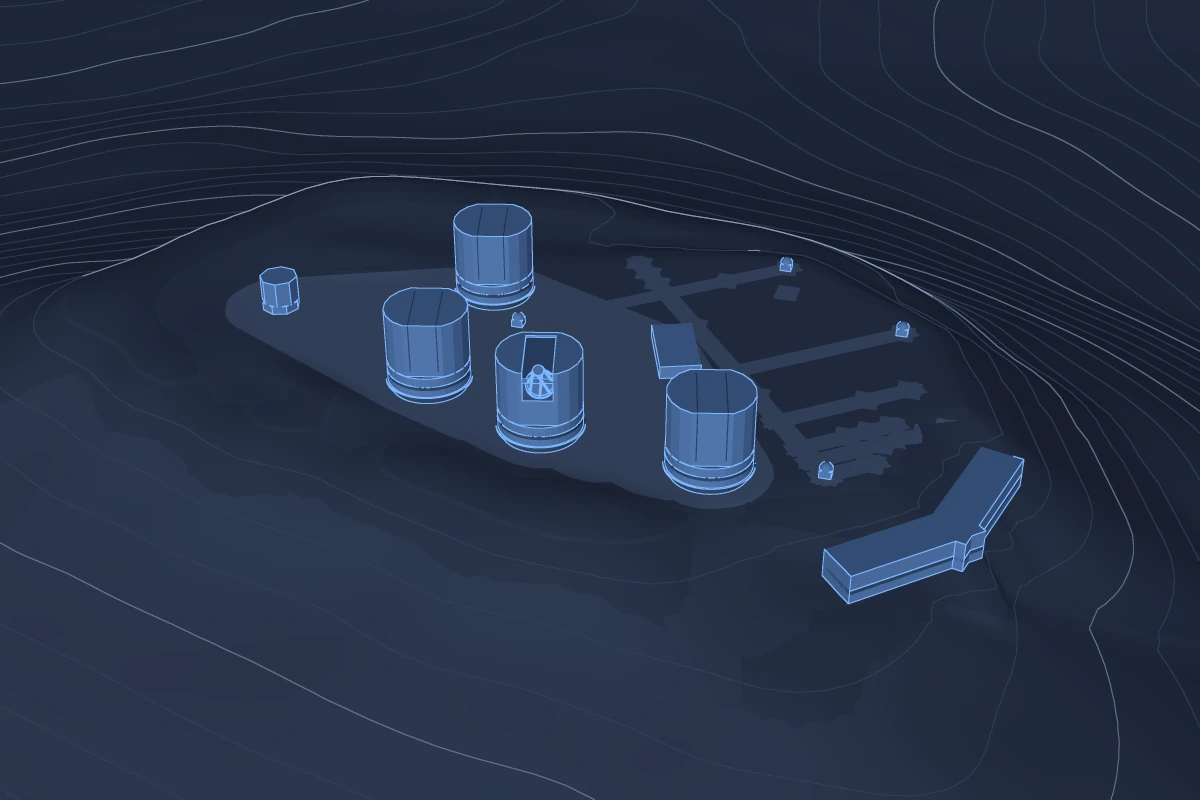
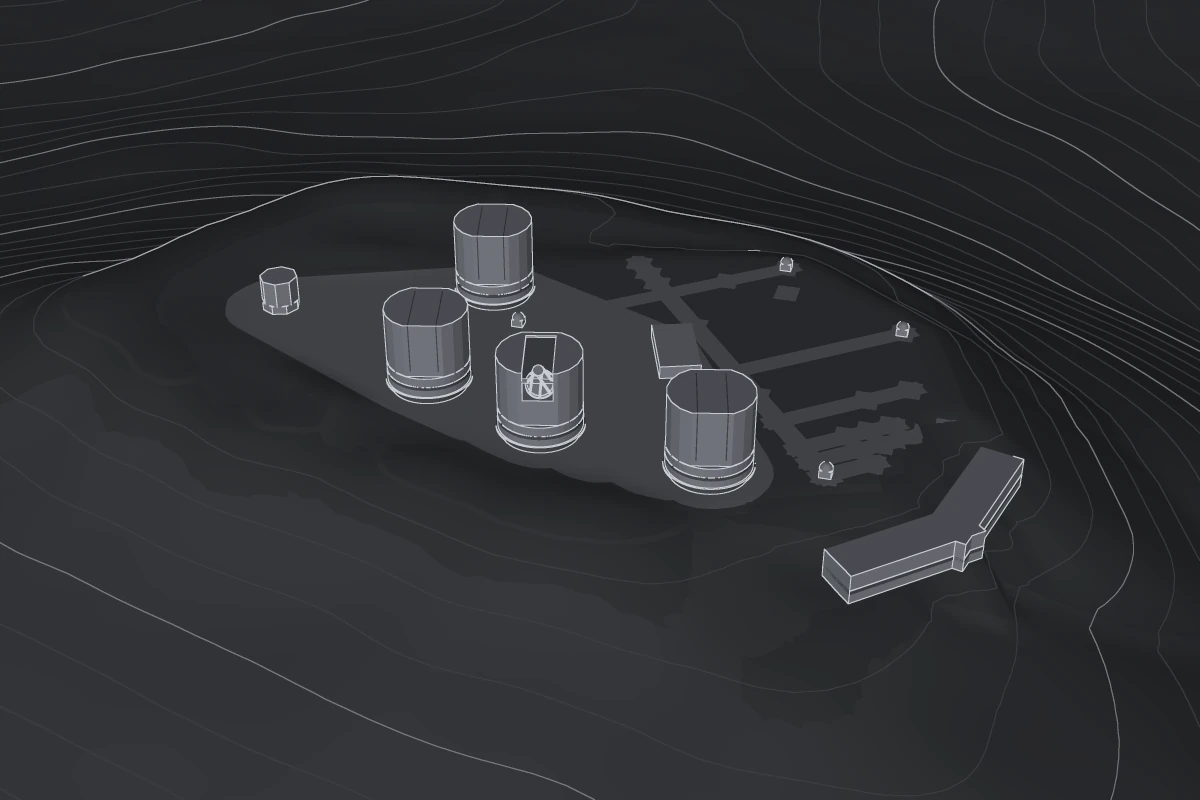
Grey schematic linework with blue for my own parts and amber for flow; marine and stone map colours; the Paranal views re-rendered in grey; the navy headshot as the portrait; the link preview and CV refreshed

diff --git a/assets/css/site.css b/assets/css/site.css
@@ -49,19 +49,28 @@
     --mono: "Geist Mono", ui-monospace, "SFMono-Regular", Menlo, Consolas, monospace;
     --serif: "Source Serif 4", Georgia, serif;
 
-    --bg: light-dark(#f4f6fa, #05070d);
-    --bg-raised: light-dark(#ffffff, #090d16);
-    --surface: light-dark(#ffffff, #0c111c);
-    --surface-2: light-dark(#eef2f8, #121a2a);
-    --line: light-dark(#dfe5ee, #1a2333);
-    --line-strong: light-dark(#c3ccda, #2b3850);
-    --ink: light-dark(#0a1220, #e8edf6);
-    --ink-2: light-dark(#29354d, #c3ccdc);
-    --muted: light-dark(#5a6780, #8a96ab);
+    --bg: light-dark(#f3f3f1, #0f1012);
+    --bg-raised: light-dark(#ffffff, #131416);
+    --surface: light-dark(#fafaf8, #16171a);
+    --surface-2: light-dark(#ececea, #1c1d21);
+    --line: light-dark(#e2e2df, #232428);
+    --line-strong: light-dark(#cfd0cc, #2f3135);
+    --ink: light-dark(#121417, #ebedf0);
+    --ink-2: light-dark(#2f3236, #cfd1d4);
+    --muted: light-dark(#5f6266, #9a9da2);
     --accent: light-dark(#1b5fd6, #7cb8ff);
     --accent-2: light-dark(#b25a06, #ffb65e);
     --accent-soft: color-mix(in oklab, var(--accent) 13%, transparent);
-    --grid: light-dark(rgb(27 95 214 / 0.07), rgb(124 184 255 / 0.055));
+    /* figures: graphite linework (--fig); blue (--mark) for the parts I built and for real data;
+       amber (--accent-2) for the flow between stages */
+    --fig: light-dark(#3d434c, #c8ccd2);
+    --mark: light-dark(#1b5fd6, #7cb8ff);
+    /* maps: marine sea, stone land, ochre for countries visited */
+    --sea: light-dark(#27415f, #0e1b2d);
+    --land: light-dark(#e8e3d5, #34312b);
+    --land-edge: light-dark(#c4bba5, #423d35);
+    --visit: light-dark(#b07a35, #c99550);
+    --grid: light-dark(rgb(40 44 52 / 0.065), rgb(200 204 210 / 0.045));
     --glow: light-dark(rgb(27 95 214 / 0.10), rgb(124 184 255 / 0.13));
     --shadow: none;
     --shadow-lg: light-dark(0 14px 34px -20px rgb(10 18 32 / 0.28), 0 18px 44px -22px rgb(0 0 0 / 0.75));
@@ -398,17 +407,17 @@
 
   /* travel map */
   .tmap { display: grid; grid-template-columns: minmax(0, 1fr) 340px; grid-template-rows: clamp(460px, 62vh, 640px); gap: 0; overflow: hidden; padding: 0; }
-  .tmap-stage { position: relative; min-block-size: 0; background: radial-gradient(90% 80% at 62% 30%, color-mix(in oklab, var(--accent) 8%, transparent), transparent 70%), var(--bg); }
+  .tmap-stage { position: relative; min-block-size: 0; background: radial-gradient(90% 80% at 62% 30%, color-mix(in oklab, #ffffff 6%, transparent), transparent 70%), var(--sea); }
   .tmap-canvas { position: absolute; inset: 0; }
   .tmap-canvas > svg { display: block; inline-size: 100%; block-size: 100%; }
-  .tmap-svg .grat path { fill: none; stroke: var(--line); stroke-width: 1; vector-effect: non-scaling-stroke; opacity: .9; }
-  .tmap-svg .land { fill: light-dark(#e2e8f1, #111a2b); stroke: light-dark(#ffffff, #1f2b42); stroke-width: 0.8; vector-effect: non-scaling-stroke; }
-  .tmap-svg .visited { fill: color-mix(in oklab, var(--accent) 34%, light-dark(#e2e8f1, #111a2b)); stroke: color-mix(in oklab, var(--accent) 70%, transparent); stroke-width: 1; vector-effect: non-scaling-stroke; }
-  .tmap-svg .visited.lvl-1 { fill: color-mix(in oklab, var(--accent) 16%, light-dark(#e2e8f1, #111a2b)); }
-  .tmap-svg .visited.lvl-2 { fill: color-mix(in oklab, var(--accent) 26%, light-dark(#e2e8f1, #111a2b)); }
-  .tmap-svg .visited.lvl-3 { fill: color-mix(in oklab, var(--accent) 38%, light-dark(#e2e8f1, #111a2b)); }
-  .tmap-svg .visited.lvl-4 { fill: color-mix(in oklab, var(--accent) 50%, light-dark(#e2e8f1, #111a2b)); }
-  .tmap-svg .visited.lvl-5 { fill: color-mix(in oklab, var(--accent) 64%, light-dark(#e2e8f1, #111a2b)); }
+  .tmap-svg .grat path { fill: none; stroke: color-mix(in oklab, #ffffff 9%, transparent); stroke-width: 1; vector-effect: non-scaling-stroke; opacity: .9; }
+  .tmap-svg .land { fill: var(--land); stroke: var(--land-edge); stroke-width: 0.8; vector-effect: non-scaling-stroke; }
+  .tmap-svg .visited { fill: color-mix(in oklab, var(--visit) 34%, var(--land)); stroke: color-mix(in oklab, var(--visit) 70%, transparent); stroke-width: 1; vector-effect: non-scaling-stroke; }
+  .tmap-svg .visited.lvl-1 { fill: color-mix(in oklab, var(--visit) 30%, var(--land)); }
+  .tmap-svg .visited.lvl-2 { fill: color-mix(in oklab, var(--visit) 42%, var(--land)); }
+  .tmap-svg .visited.lvl-3 { fill: color-mix(in oklab, var(--visit) 54%, var(--land)); }
+  .tmap-svg .visited.lvl-4 { fill: color-mix(in oklab, var(--visit) 66%, var(--land)); }
+  .tmap-svg .visited.lvl-5 { fill: color-mix(in oklab, var(--visit) 80%, var(--land)); }
   .tmap-legend .ramp { display: inline-flex; vertical-align: middle; margin-inline: 4px; }
   .tmap-legend .ramp b { inline-size: 14px; block-size: 9px; }
   .tmap-svg .lod { display: none; }
@@ -416,7 +425,7 @@
   .tmap-svg[data-lod="europe"] .lod-world, .tmap-svg[data-lod="portugal"] .lod-europe { display: inline; }
   .tmap-svg[data-lod="portugal"] .lod-world { display: none; }
   .tmap-svg .ring { fill: none; stroke: var(--accent); stroke-opacity: .28; stroke-width: 1; stroke-dasharray: 3 6; vector-effect: non-scaling-stroke; }
-  .tmap-svg .ring-label { font: 500 11px var(--mono); fill: var(--muted); }
+  .tmap-svg .ring-label { font: 500 11px var(--mono); fill: color-mix(in oklab, #ffffff 62%, var(--sea)); }
   .tmap-svg .route { fill: none; stroke: var(--accent-2); stroke-width: 1.8; stroke-linecap: round; vector-effect: non-scaling-stroke; opacity: .9; }
   .tmap-svg .route.is-dim { opacity: .2; }
   .tmap-svg .route-glow { fill: none; stroke: var(--accent-2); stroke-width: 6; stroke-linecap: round; vector-effect: non-scaling-stroke; opacity: .12; }
@@ -440,11 +449,11 @@
     border: 1px solid var(--line); backdrop-filter: blur(8px); }
   .seg button { border: 0; background: none; padding: 6px 12px; border-radius: 999px; font: 500 0.8rem var(--sans); color: var(--ink-2); }
   .seg button[aria-pressed="true"] { background: var(--ink); color: var(--bg); }
-  .tmap-legend { position: absolute; inset: auto 14px 12px 14px; z-index: 3; display: flex; flex-wrap: wrap; gap: 6px 16px; font: 0.72rem var(--mono); color: var(--muted); pointer-events: none; }
+  .tmap-legend { position: absolute; inset: auto 14px 12px 14px; z-index: 3; display: flex; flex-wrap: wrap; gap: 6px 16px; font: 0.72rem var(--mono); color: color-mix(in oklab, #ffffff 74%, var(--sea)); pointer-events: none; }
   .tmap-legend span { display: inline-flex; align-items: center; gap: 6px; }
   .tmap-legend i { inline-size: 18px; block-size: 2px; background: var(--accent-2); display: inline-block; border-radius: 2px; }
   .tmap-legend i.home { inline-size: 9px; block-size: 9px; border-radius: 50%; background: var(--accent); }
-  .tmap-legend i.country { inline-size: 12px; block-size: 9px; border-radius: 2px; background: color-mix(in oklab, var(--accent) 34%, var(--surface-2)); }
+  .tmap-legend i.country { inline-size: 12px; block-size: 9px; border-radius: 2px; background: color-mix(in oklab, var(--visit) 34%, var(--land)); }
   .tmap-card { position: absolute; z-index: 5; inline-size: min(320px, calc(100% - 28px)); max-block-size: calc(100% - 68px); overflow-y: auto; background: var(--surface); border: 1px solid var(--line-strong);
     border-radius: 14px; box-shadow: var(--shadow-lg); overflow: hidden; pointer-events: auto; opacity: 0; transform: translateY(6px) scale(.98);
     transition: opacity .18s var(--ease), transform .18s var(--ease); }
@@ -767,6 +776,10 @@
   .paper-fig-img img { border: 0; }
   /* blueprint figures (light path) */
   .bp-svg { inline-size: 100%; block-size: auto; color: var(--accent); }
+  .bp-svg, .f1-svg, .iso-svg { --accent: var(--fig); }
+  :is(.f1-t, .f1-apogee, .f1-fill, .hy-dot-acc, .hy-data circle, .hy-data-key, .hy-mark-h, .hy-psf-n, .hy-bar,
+      .nw-dot, .nw-dot-o, .nw-me, .nw-box-me, .nw-line-me, .nw-box-part, .nw-hatch-line, .nw-key-part, .nw-band-me,
+      .nw-key-me, .nw-dash-me, .nw-bar, .th-mark, .th-dot, .th-val, .hpc-sq.cpu-on) { --accent: var(--mark); }
   .bp-svg .ray { fill: none; stroke: var(--accent-2); stroke-width: 1.2; vector-effect: non-scaling-stroke; opacity: .9; }
   .bp-svg .warmray { stroke: var(--accent-2); }
   .bp-svg .mirror { stroke-width: 3; }
@@ -867,13 +880,13 @@
     --anatomy-shade-1: color-mix(in oklab, var(--surface) 90%, var(--ink) 10%);
     --anatomy-shade-2: color-mix(in oklab, var(--surface) 86%, var(--ink) 14%);
     --anatomy-shade-3: color-mix(in oklab, var(--surface) 82%, var(--ink) 18%);
-    --anatomy-lit-top: color-mix(in oklab, var(--accent) 45%, var(--surface));
-    --anatomy-lit-shade: color-mix(in oklab, var(--accent) 25%, var(--surface));
+    --anatomy-lit-top: color-mix(in oklab, var(--mark) 45%, var(--surface));
+    --anatomy-lit-shade: color-mix(in oklab, var(--mark) 25%, var(--surface));
     --anatomy-hi: var(--ink);
     --anatomy-mid: var(--ink-2);
     --anatomy-lo: var(--muted);
     --anatomy-faint: var(--line-strong);
-    --anatomy-lit: var(--accent);
+    --anatomy-lit: var(--mark);
     --anatomy-dot: var(--ink);
     --anatomy-blue: var(--accent-2);
     --anatomy-weight: .7px;

diff --git a/_includes/head.html b/_includes/head.html
@@ -11,8 +11,8 @@
 <link rel="icon" href="{{ '/favicon.ico' | relative_url }}" sizes="48x48">
 <link rel="icon" href="{{ '/assets/img/favicon.svg' | relative_url }}" type="image/svg+xml">
 <link rel="apple-touch-icon" href="{{ '/assets/img/apple-touch-icon.png' | relative_url }}">
-<meta name="theme-color" media="(prefers-color-scheme: dark)" content="#05070d">
-<meta name="theme-color" media="(prefers-color-scheme: light)" content="#f4f6fa">
+<meta name="theme-color" media="(prefers-color-scheme: dark)" content="#0f1012">
+<meta name="theme-color" media="(prefers-color-scheme: light)" content="#f3f3f1">
 <link rel="preload" href="{{ '/assets/fonts/geist-latin-wght-normal.woff2' | relative_url }}" as="font" type="font/woff2" crossorigin>
 <link rel="preload" href="{{ '/assets/fonts/geist-mono-latin-wght-normal.woff2' | relative_url }}" as="font" type="font/woff2" crossorigin>
 <link rel="preload" href="{{ '/assets/fonts/source-serif-4-latin-wght-normal.woff2' | relative_url }}" as="font" type="font/woff2" crossorigin>

diff --git a/assets/css/eso.css b/assets/css/eso.css
@@ -5,7 +5,7 @@
   .guide-wide .eso-svg { inline-size: 100%; block-size: auto; }
   .guide-wide figcaption { padding: 8px 4px 2px; }
   .eso-svg .eso-land { fill: color-mix(in oklab, var(--muted) 8%, transparent); stroke: var(--line-strong); stroke-width: 0.8; }
-  .eso-svg .eso-chile { fill: color-mix(in oklab, var(--accent) 12%, transparent); stroke: currentColor; stroke-width: 1.2; stroke-linejoin: round; }
+  .eso-svg .eso-chile { fill: var(--land); stroke: var(--land-edge); stroke-width: 1.2; stroke-linejoin: round; }
   .eso-svg .eso-tropic { fill: none; stroke: var(--muted); stroke-width: 0.8; stroke-dasharray: 6 3 1 3; }
   .eso-svg .eso-sea, .eso-svg .eso-country { font: italic 500 12px var(--serif); fill: var(--muted); }
   .eso-svg .eso-site { fill: var(--accent-2); }

diff --git a/assets/css/fig1.css b/assets/css/fig1.css
@@ -19,7 +19,7 @@
 
   /* connectors between stages: curved and dashed, the dashes flowing in the direction of the data.
      A mask that draws on reveals each one during the build; under reduced motion they stay still. */
-  .f1-svg .f1-link { fill: none; stroke: var(--accent); stroke-width: 2; stroke-dasharray: 5 4; stroke-linecap: round; }
+  .f1-svg .f1-link { fill: none; stroke: var(--accent-2); stroke-width: 2; stroke-dasharray: 5 4; stroke-linecap: round; }
   .f1-svg .f1-mask { fill: none; stroke: #fff; stroke-width: 14; stroke-linecap: round; }
   @media (prefers-reduced-motion: no-preference) {
     .f1-svg .f1-link { animation: f1-flow 1.6s linear infinite; }

diff --git a/figures/eso/paranal_render.py b/figures/eso/paranal_render.py
@@ -670,12 +670,12 @@ def main() -> None:
              "edge": line_cov(edge) * (1 - 0.7 * fadeo), "oedge": line_cov(oedge)}
 
     themes = {
-        "light": dict(lit=(1.00, 1.00, 1.00), shade=(0.80, 0.83, 0.88), objlit=(0.88, 0.92, 0.99), objshade=(0.62, 0.71, 0.88),
-                      line=(0.73, 0.78, 0.85), ink2=(0.33, 0.40, 0.52), acc=(0.106, 0.373, 0.839), far=(1.0, 1.0, 1.0),
-                      paved=(0.93, 0.95, 0.99), pshade=(0.72, 0.77, 0.86)),
-        "dark": dict(lit=(0.20, 0.25, 0.35), shade=(0.06, 0.08, 0.13), objlit=(0.33, 0.48, 0.70), objshade=(0.11, 0.17, 0.29),
-                     line=(0.20, 0.26, 0.37), ink2=(0.62, 0.68, 0.78), acc=(0.486, 0.722, 1.0), far=(0.047, 0.067, 0.110),
-                     paved=(0.30, 0.37, 0.50), pshade=(0.10, 0.13, 0.20)),
+        "light": dict(lit=(1.00, 1.00, 1.00), shade=(0.82, 0.82, 0.81), objlit=(0.90, 0.90, 0.90), objshade=(0.66, 0.67, 0.69),
+                      line=(0.78, 0.78, 0.77), ink2=(0.37, 0.39, 0.41), acc=(0.239, 0.263, 0.298), far=(0.98, 0.98, 0.973),
+                      paved=(0.95, 0.95, 0.94), pshade=(0.77, 0.77, 0.77)),
+        "dark": dict(lit=(0.24, 0.245, 0.26), shade=(0.07, 0.072, 0.08), objlit=(0.46, 0.47, 0.50), objshade=(0.16, 0.165, 0.18),
+                     line=(0.25, 0.26, 0.28), ink2=(0.75, 0.76, 0.78), acc=(0.784, 0.80, 0.824), far=(0.086, 0.090, 0.102),
+                     paved=(0.38, 0.39, 0.41), pshade=(0.13, 0.135, 0.15)),
     }
     for theme, t_ in themes.items():
         t_ = {k_: np.array(v_) for k_, v_ in t_.items()}
